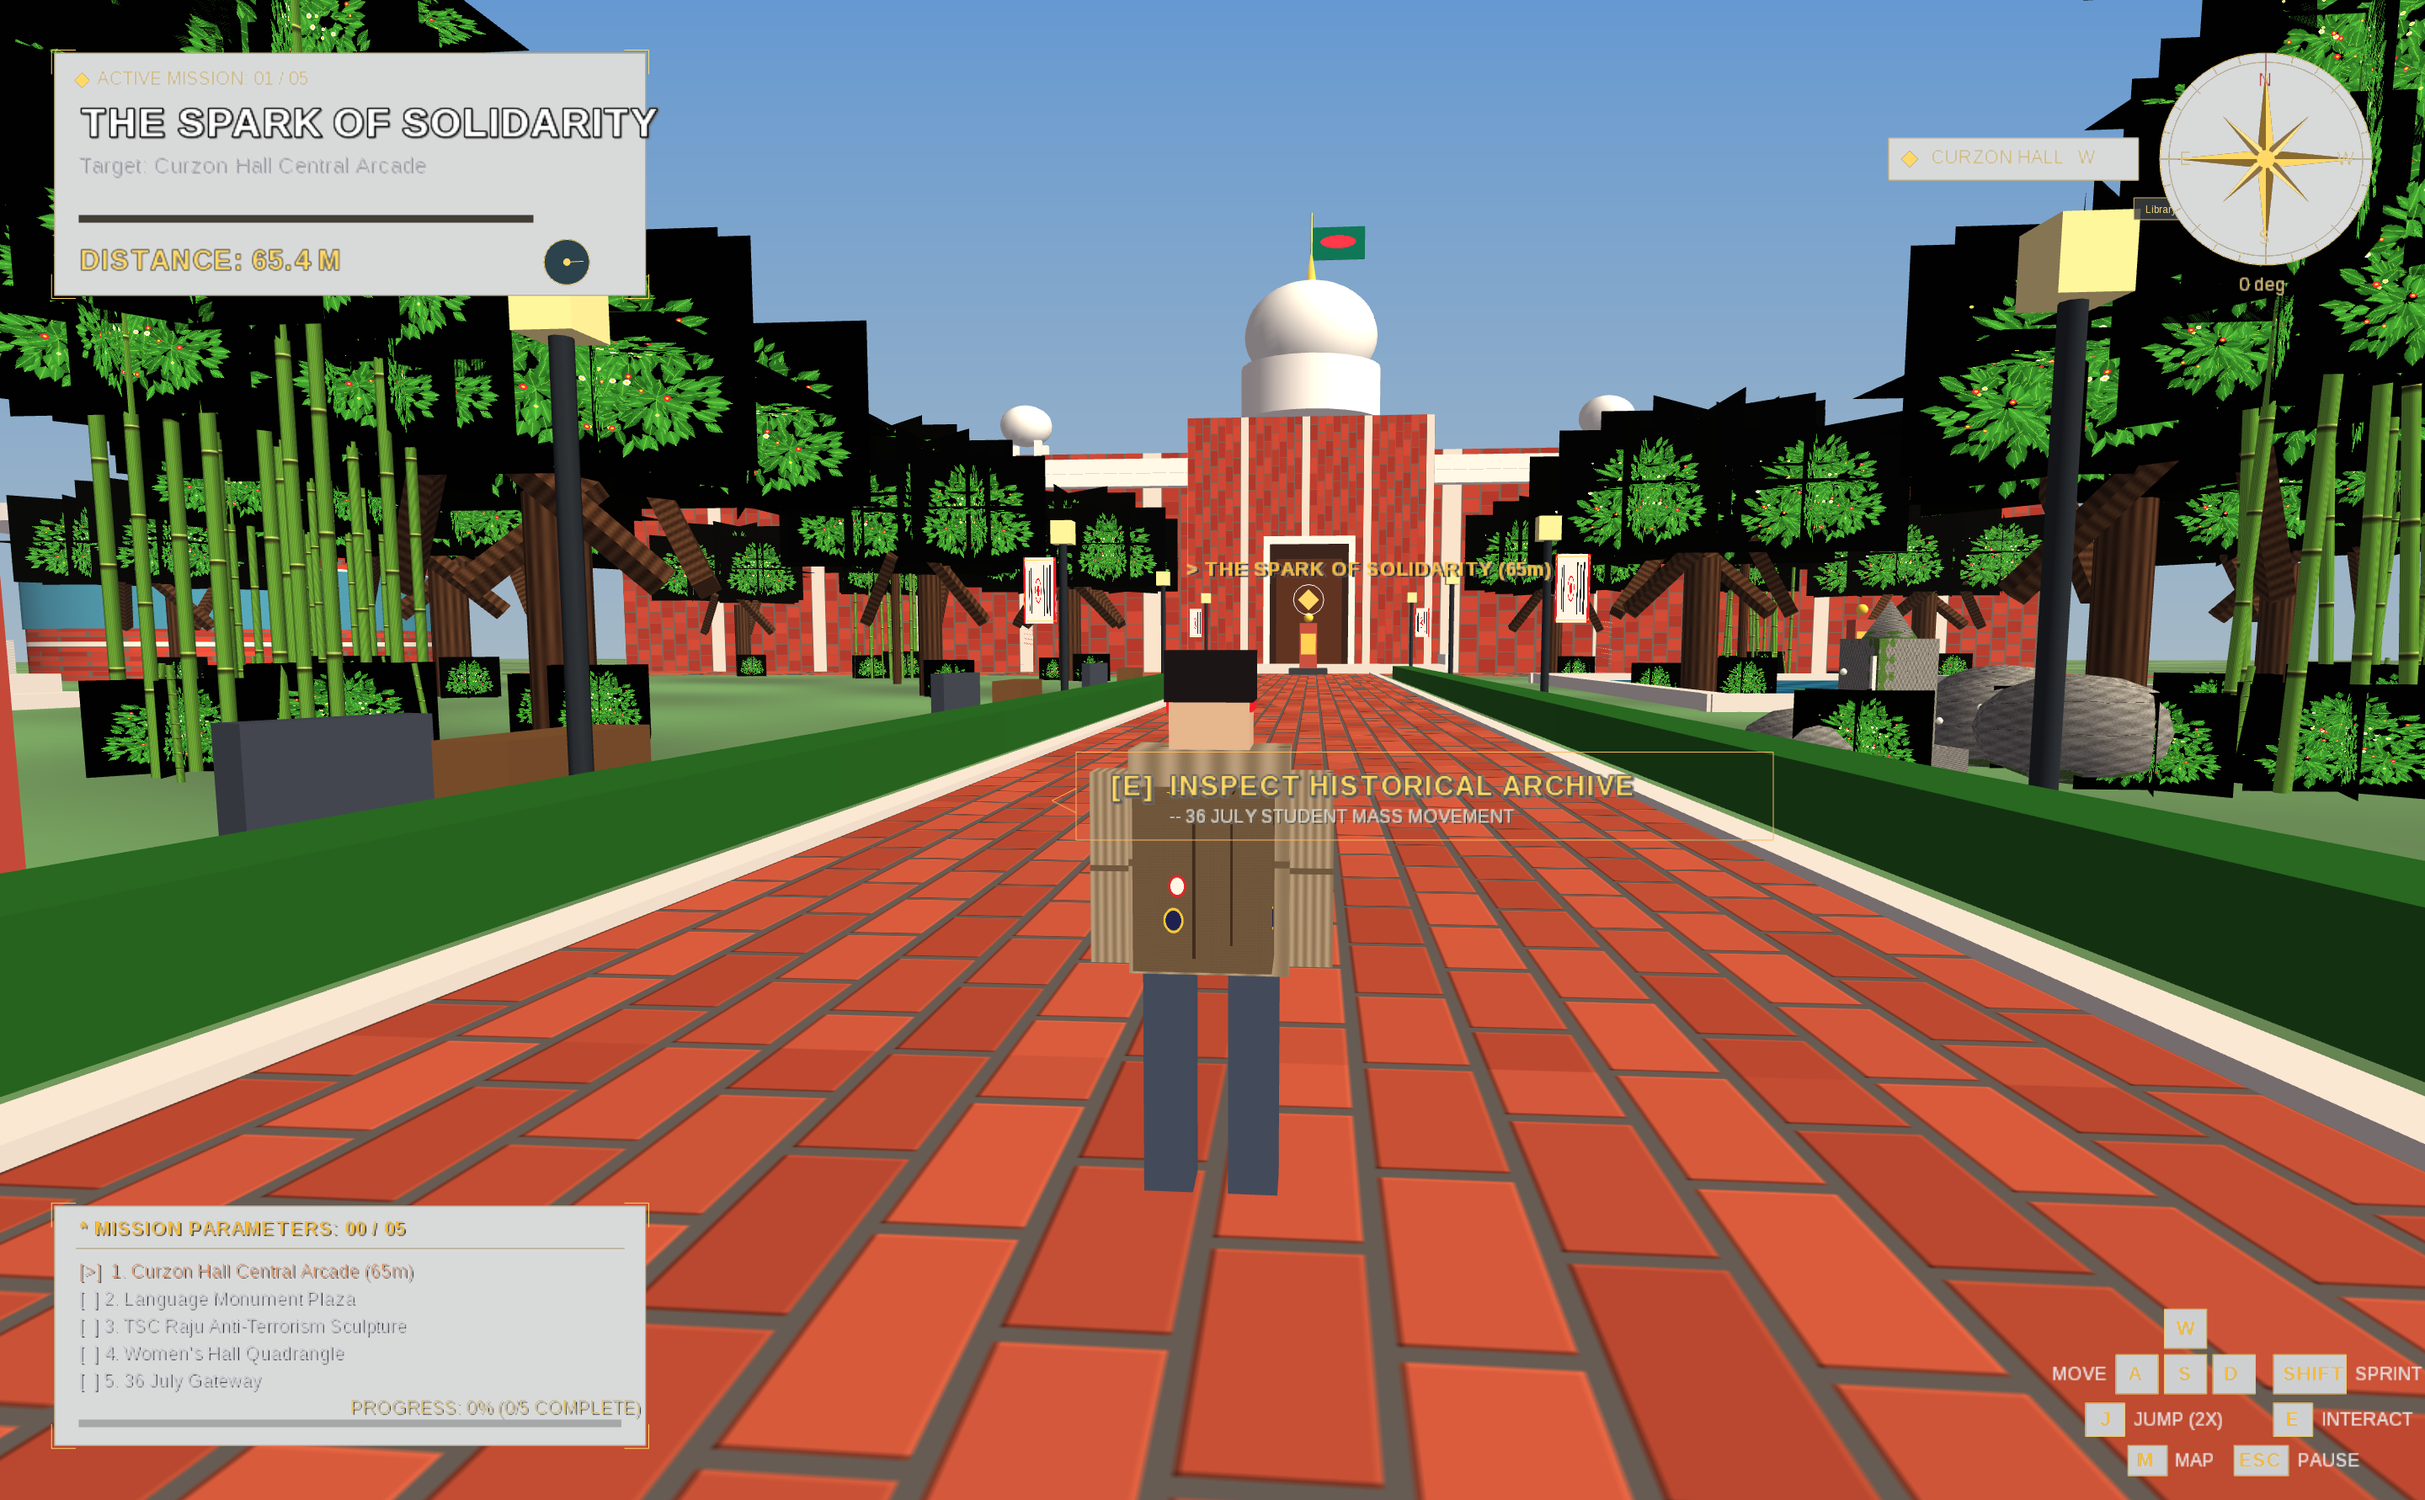
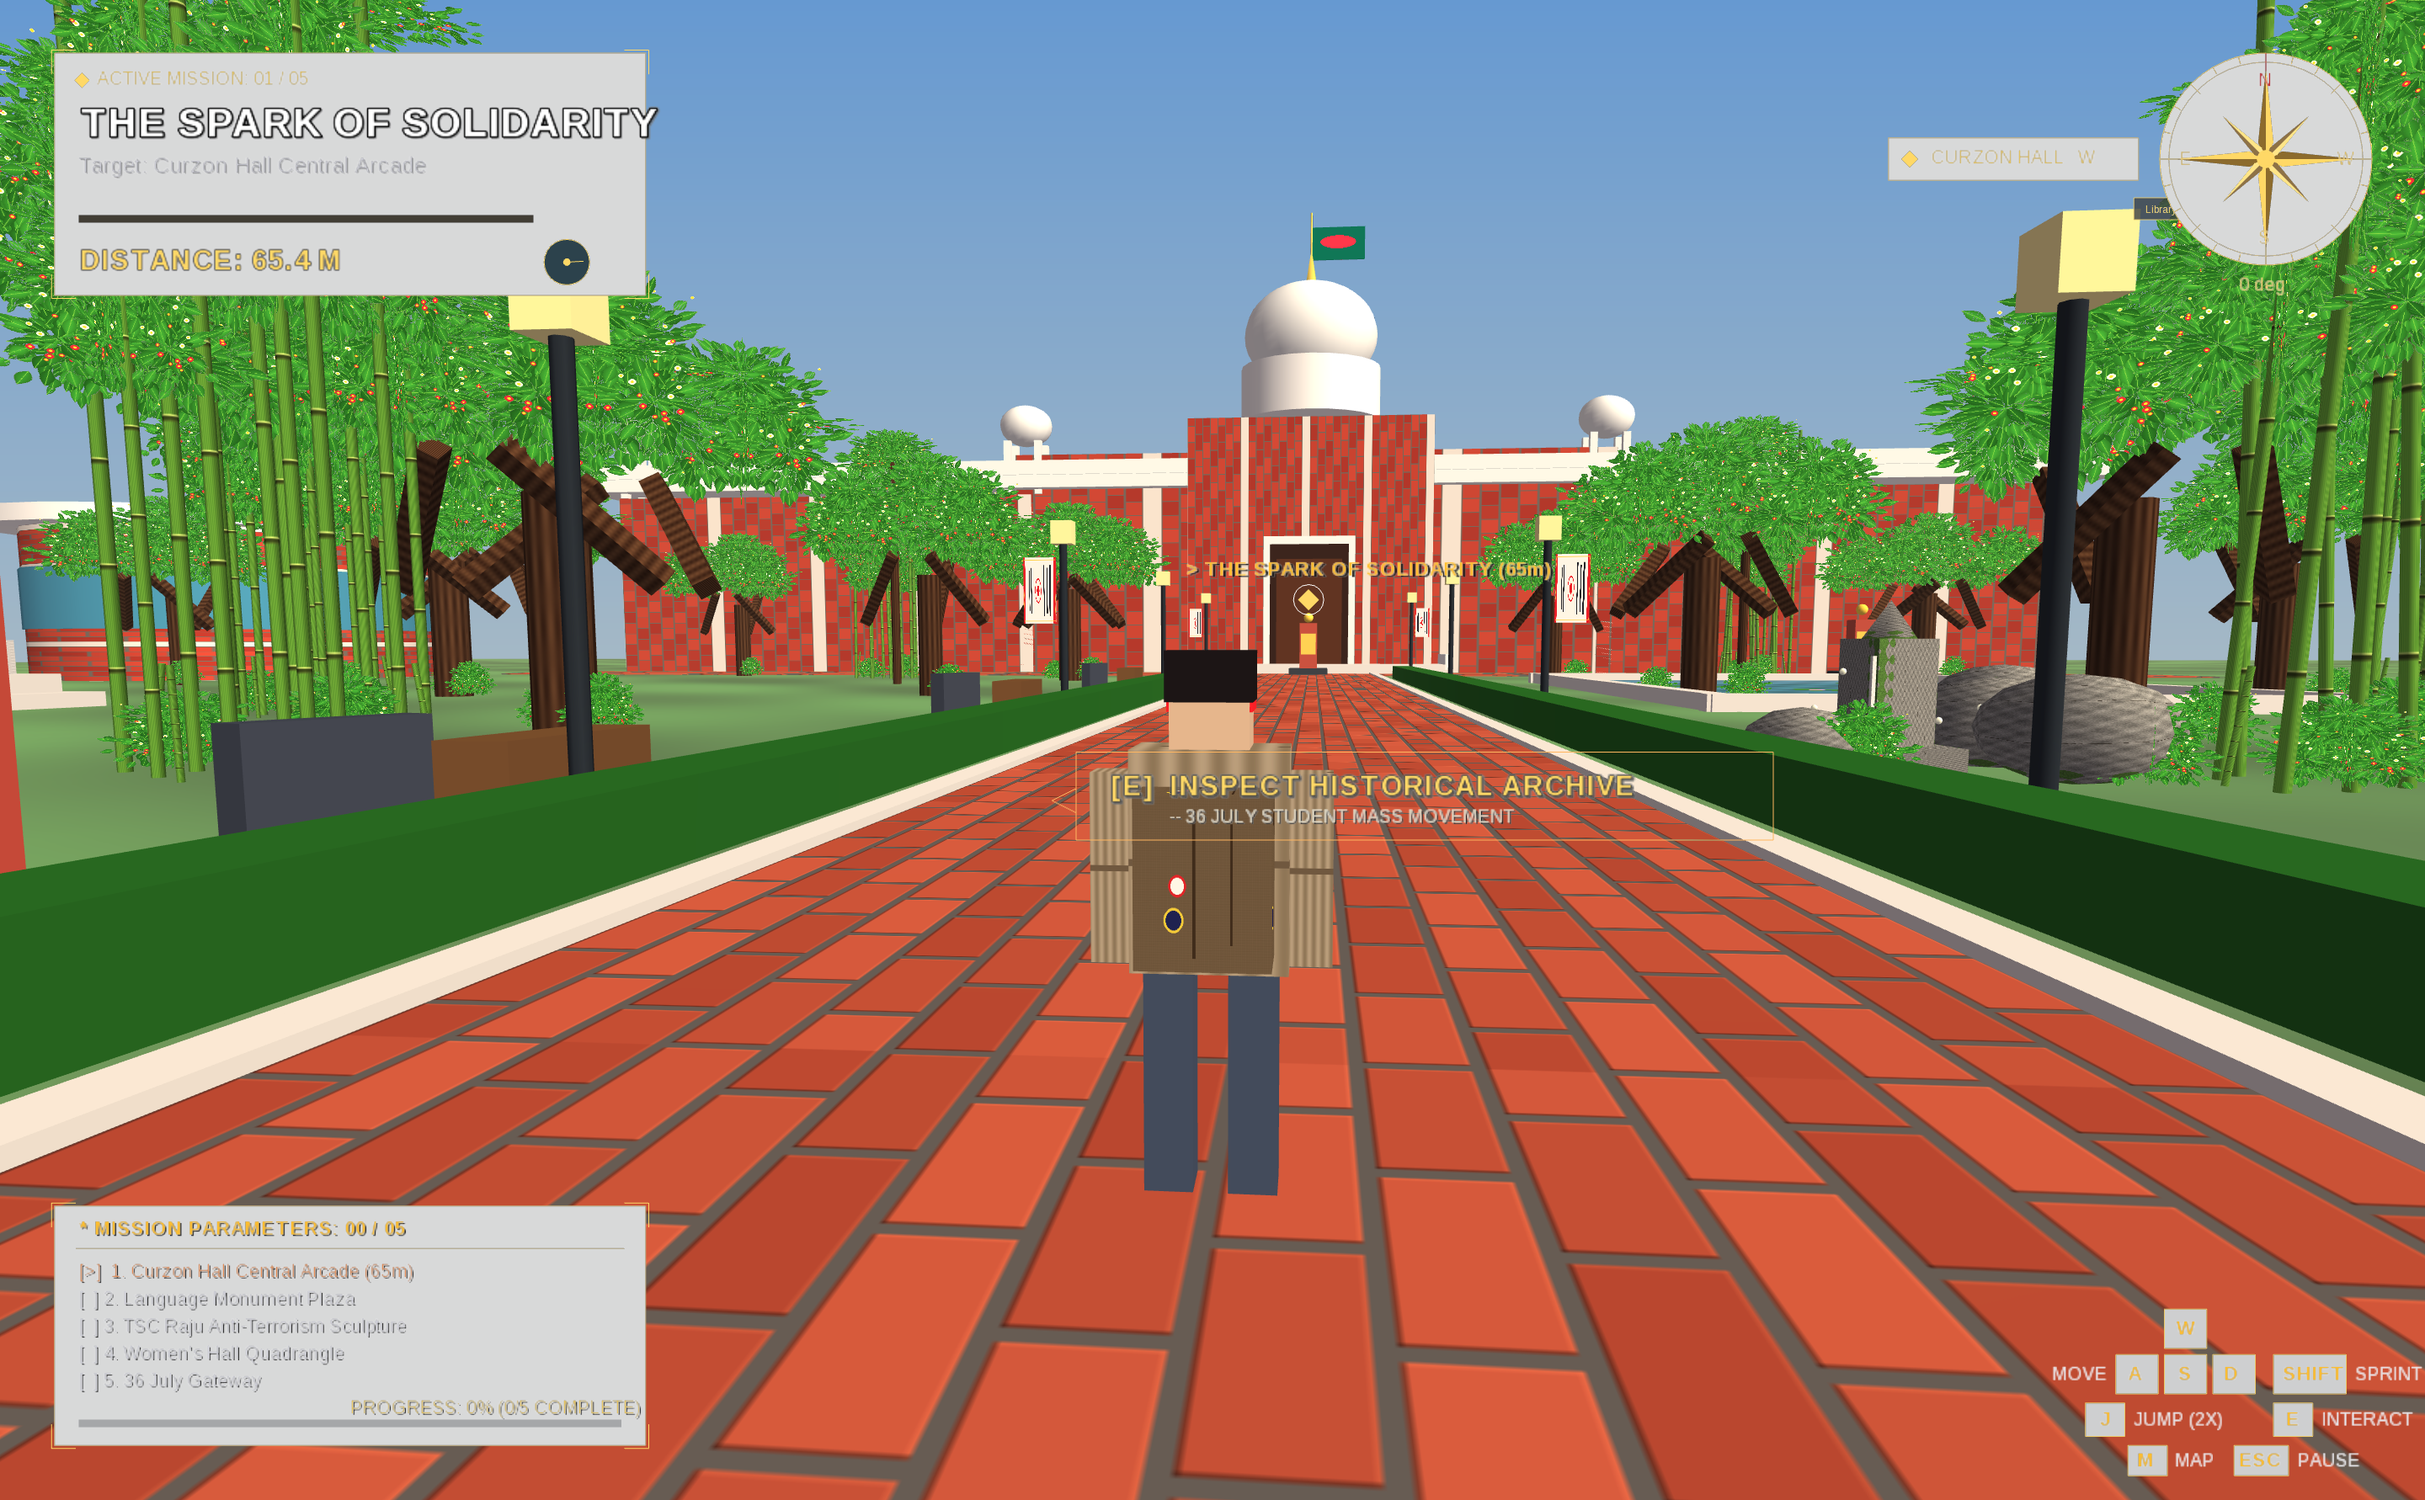
feat: AAA sharp bamboo groves, cutout foliage, bushes, boundary stone, and curzon pukur

diff --git a/core/src/main/java/bd/spark36/world/DhakaCampusWorld.java b/core/src/main/java/bd/spark36/world/DhakaCampusWorld.java
@@ -8,6 +8,7 @@ import com.badlogic.gdx.graphics.g3d.Material;
 import com.badlogic.gdx.graphics.g3d.Model;
 import com.badlogic.gdx.graphics.g3d.ModelBatch;
 import com.badlogic.gdx.graphics.g3d.ModelInstance;
+import com.badlogic.gdx.graphics.g3d.attributes.BlendingAttribute;
 import com.badlogic.gdx.graphics.g3d.attributes.ColorAttribute;
 import com.badlogic.gdx.graphics.g3d.attributes.FloatAttribute;
 import com.badlogic.gdx.graphics.g3d.attributes.IntAttribute;
@@ -81,14 +82,16 @@ public class DhakaCampusWorld implements Disposable {
 
         Material foliageMat = new Material(
             TextureAttribute.createDiffuse(textures.foliage),
-            FloatAttribute.createAlphaTest(0.35f),
+            new BlendingAttribute(GL20.GL_SRC_ALPHA, GL20.GL_ONE_MINUS_SRC_ALPHA, 1f),
+            FloatAttribute.createAlphaTest(0.20f),
             IntAttribute.createCullFace(0),
             ColorAttribute.createDiffuse(new Color(0.96f, 0.98f, 0.94f, 1f))
         );
 
         Material krishnachuraMat = new Material(
             TextureAttribute.createDiffuse(textures.krishnachuraBlossom),
-            FloatAttribute.createAlphaTest(0.35f),
+            new BlendingAttribute(GL20.GL_SRC_ALPHA, GL20.GL_ONE_MINUS_SRC_ALPHA, 1f),
+            FloatAttribute.createAlphaTest(0.20f),
             IntAttribute.createCullFace(0),
             ColorAttribute.createDiffuse(new Color(1f, 0.96f, 0.94f, 1f))
         );
@@ -100,14 +103,16 @@ public class DhakaCampusWorld implements Disposable {
 
         Material bambooLeafMat = new Material(
             TextureAttribute.createDiffuse(textures.bambooFoliage),
-            FloatAttribute.createAlphaTest(0.35f),
+            new BlendingAttribute(GL20.GL_SRC_ALPHA, GL20.GL_ONE_MINUS_SRC_ALPHA, 1f),
+            FloatAttribute.createAlphaTest(0.20f),
             IntAttribute.createCullFace(0),
             ColorAttribute.createDiffuse(new Color(0.96f, 0.98f, 0.92f, 1f))
         );
 
         Material bushMat = new Material(
             TextureAttribute.createDiffuse(textures.bushFoliage),
-            FloatAttribute.createAlphaTest(0.35f),
+            new BlendingAttribute(GL20.GL_SRC_ALPHA, GL20.GL_ONE_MINUS_SRC_ALPHA, 1f),
+            FloatAttribute.createAlphaTest(0.20f),
             IntAttribute.createCullFace(0),
             ColorAttribute.createDiffuse(new Color(0.95f, 0.98f, 0.92f, 1f))
         );
@@ -119,6 +124,7 @@ public class DhakaCampusWorld implements Disposable {
 
         Material curzonPukurWaterMat = new Material(
             TextureAttribute.createDiffuse(textures.curzonWater),
+            new BlendingAttribute(GL20.GL_SRC_ALPHA, GL20.GL_ONE_MINUS_SRC_ALPHA, 0.90f),
             ColorAttribute.createDiffuse(new Color(0.92f, 0.96f, 1.0f, 1f))
         );
 
@@ -449,9 +455,11 @@ public class DhakaCampusWorld implements Disposable {
                     addHorizontalQuad(mpbRain, tx + bo[0] * 1.6f, 6.2f, tz + bo[2] * 1.6f, 4.8f);
                 }
 
-                // Central high canopy crown
-                addCrossedQuads(mpbRain, tx, 4.8f, tz, 6.5f, 4.2f, 4, 0f);
-                addHorizontalQuad(mpbRain, tx, 6.9f, tz, 5.8f);
+                // Central lower and high canopy crown (fully enveloping trunk and branches)
+                addCrossedQuads(mpbRain, tx, 3.4f, tz, 7.2f, 3.8f, 3, 0f);
+                addHorizontalQuad(mpbRain, tx, 4.8f, tz, 6.4f);
+                addCrossedQuads(mpbRain, tx, 4.6f, tz, 7.8f, 4.4f, 4, 0f);
+                addHorizontalQuad(mpbRain, tx, 7.0f, tz, 6.8f);
 
                 // Ground bush ring around tree trunk
                 addCrossedQuads(mpbBushes, tx + 1.2f, 0f, tz + 0.8f, 1.8f, 1.3f, 3, 0f);
@@ -478,9 +486,11 @@ public class DhakaCampusWorld implements Disposable {
                     addHorizontalQuad(mpbKrishna, tx + bo[0] * 1.5f, 5.8f, tz + bo[2] * 1.5f, 4.4f);
                 }
 
-                // Central flower crown
-                addCrossedQuads(mpbKrishna, tx, 4.6f, tz, 5.8f, 3.8f, 4, 0f);
-                addHorizontalQuad(mpbKrishna, tx, 6.4f, tz, 5.2f);
+                // Central lower and high blossom crown
+                addCrossedQuads(mpbKrishna, tx, 3.2f, tz, 6.5f, 3.6f, 3, 0f);
+                addHorizontalQuad(mpbKrishna, tx, 4.5f, tz, 5.8f);
+                addCrossedQuads(mpbKrishna, tx, 4.4f, tz, 7.0f, 4.0f, 4, 0f);
+                addHorizontalQuad(mpbKrishna, tx, 6.6f, tz, 6.2f);
 
                 // Wildflower shrub around base
                 addCrossedQuads(mpbBushes, tx + 0.9f, 0f, tz + 0.9f, 1.7f, 1.2f, 3, 0f);
